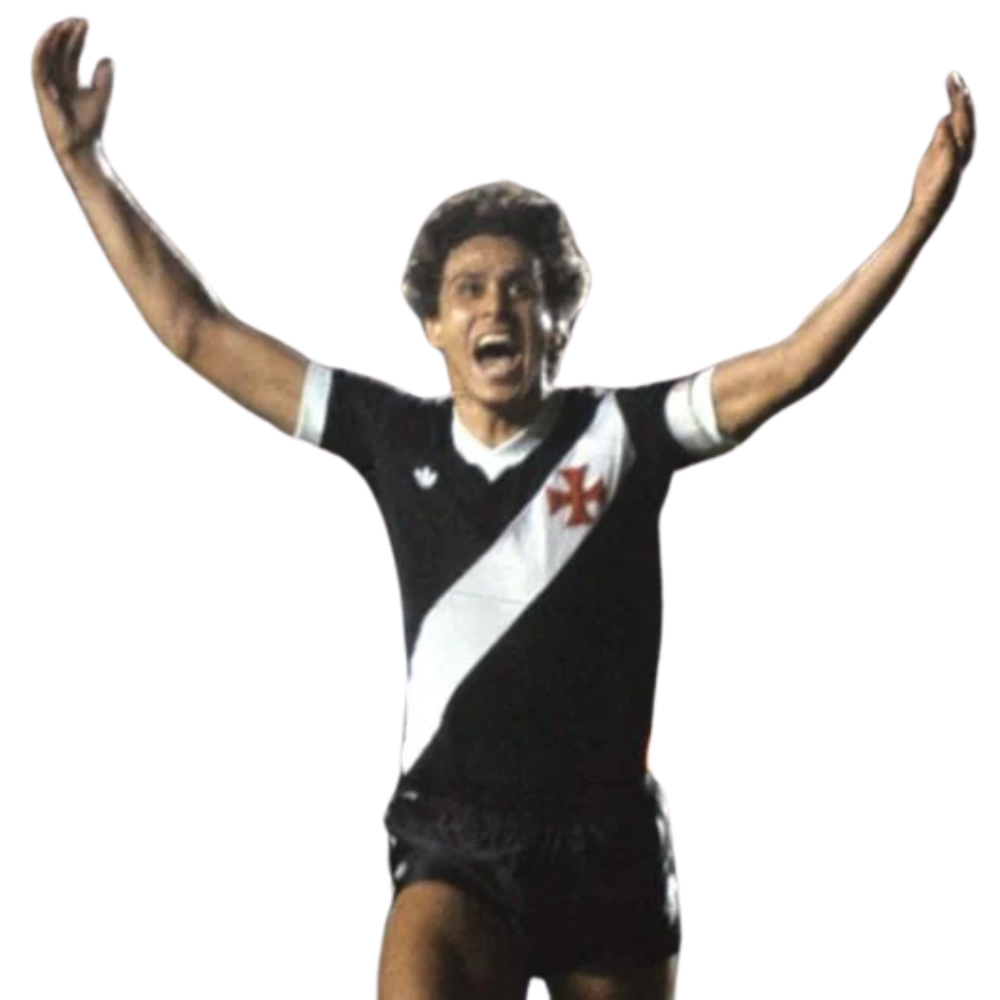
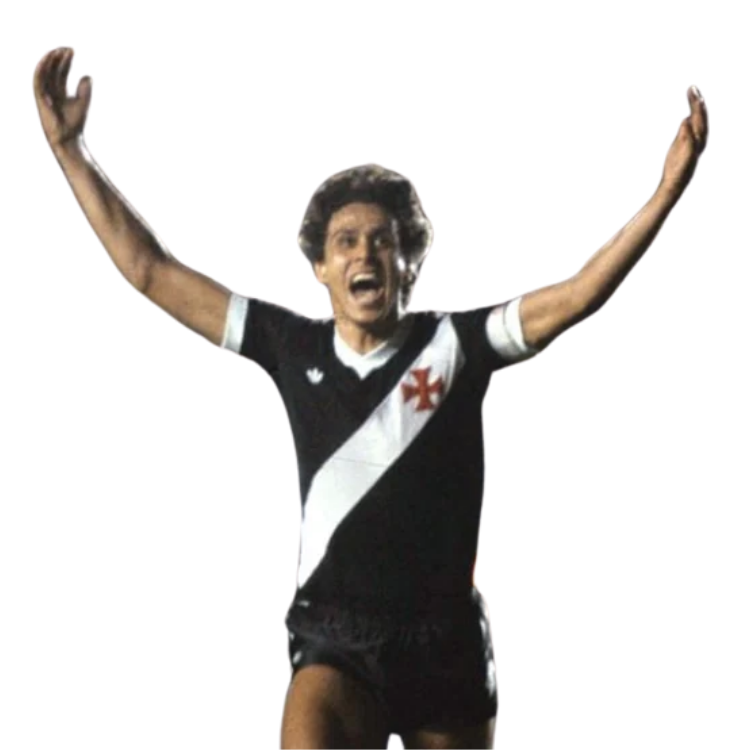
update

diff --git a/index.html b/index.html
@@ -39,15 +39,54 @@
     </section>
     <!--===================================================================================-->
     <section class="idolos">
-        <p>aaaaaaaaaaaaaaaaaaaaaaaaaaaaaaaaa</p>
-        <p>aaaaaaaaaaaaaaaaaaaaaaaaaaaaaaaaa</p>
-        <p>aaaaaaaaaaaaaaaaaaaaaaaaaaaaaaaaa</p>
-        <p>aaaaaaaaaaaaaaaaaaaaaaaaaaaaaaaaa</p>
-        <p>aaaaaaaaaaaaaaaaaaaaaaaaaaaaaaaaa</p>
-        <p>aaaaaaaaaaaaaaaaaaaaaaaaaaaaaaaaa</p>
-        <p>aaaaaaaaaaaaaaaaaaaaaaaaaaaaaaaaa</p>
-        <p>aaaaaaaaaaaaaaaaaaaaaaaaaaaaaaaaa</p>
-        v
+        <div id="titulo">
+            <h2>ÍDOLOS</h2>
+            <h1>VASCO DA GAMA</h1>
+        </div>
+        <div class="card-idolo-r">
+            <div class="imagem-card">
+                <img src="/imagens/dinamite.png" class="img-idolo"/>
+                <div class="faixa-cards">
+                </div>
+            </div>
+            <div class="informações">
+                <h2>ROBERTO</h2>
+                <h1>DINAMITE</h1>
+                <p>
+                    Roberto Dinamite foi um dos maiores ídolos do Vasco da Gama e do futebol brasileiro. Maior artilheiro da história do clube, marcou mais de 500 gols com a camisa vascaína e também defendeu a Seleção Brasileira. Seu legado é sinônimo de talento, paixão e respeito.
+                </p>
+            </div>
+        </div>
+
+        <div class="card-idolo-l">
+            <div class="imagem-card">
+                <img src="/imagens/romario.png" class="img-idolo"/>
+                <div class="faixa-cards-l">
+                </div>
+            </div>
+            <div class="informações-l">
+                <h2>ROMÁRIO</h2>
+                <h1>BAIXINHO</h1>
+                <p>
+                    Romário é um dos grandes ídolos da história do Vasco da Gama. Com seu estilo único e faro de gol, marcou época no clube e ajudou a conquistar títulos importantes, incluindo o Brasileirão de 2000. Seu nome está eternizado na história vascaína.
+                </p>
+            </div>
+        </div>
+
+        <div class="card-idolo-r">
+            <div class="imagem-card">
+                <img src="/imagens/vegetti.png" class="img-idolo"/>
+                <div class="faixa-cards">
+                </div>
+            </div>
+            <div class="informações">
+                <h2>PABLO</h2>
+                <h1>VEGETTI</h1>
+                <p>
+                    Vegetti é um dos destaques recentes do Vasco da Gama. Com raça, presença de área e gols decisivos, rapidamente conquistou a torcida e se tornou peça fundamental do time. Seu espírito de luta representa bem a tradição vascaína.
+                </p>
+            </div>
+        </div>
     </section>
     <!--===================================================================================-->
     <section class="loja">

diff --git a/style.css b/style.css
@@ -148,3 +148,117 @@ header img{
   background: linear-gradient(90deg,rgba(0, 0, 0, 0.8) 0%, rgba(39, 39, 39, 0.5) 50%, rgba(237, 221, 83, 0) 100%);
   height: 50vw;
 }
+
+/*Fim do Banner ===============================================================================================================*/
+
+.idolos{
+    background-color: rgba(28, 28, 28, 1);
+    padding-bottom: 10vw;
+    padding-top:10vw;
+}
+
+#titulo{
+    text-align: center;
+    padding-bottom: 8vw;
+}
+
+.idolos h1{
+    font-size: 8vw;
+    color:brown;
+    font-family: Long shot;
+    letter-spacing: 3px;
+}
+
+.idolos h2{
+    font-size:3.5vw;
+    font-family:'Gill Sans', 'Gill Sans MT', Calibri, 'Trebuchet MS', sans-serif;
+}
+
+.idolos{
+
+    color: aliceblue;
+    font-family:Verdana, Geneva, Tahoma, sans-serif;
+    font-size:1.3vw;
+    text-align:justify;
+}
+
+.img-idolo{
+     max-width: 35vw;
+     position: relative;
+     z-index: 99;
+     grid-column-start: 1;
+     grid-row-start: 1;
+}
+
+.card-idolo-r{
+    overflow: hidden;
+    display:grid;
+    grid-template-columns: 1fr 1fr;
+    background-color: none;
+    border-radius: 2vw;
+    width:70%;
+    margin: 0 auto;
+    height: auto;
+    margin-bottom: 8vw;
+    box-shadow: -5px 5px 10px 2px  rgb(117, 117, 117);
+}
+
+.informações{
+    grid-column-start: 2;
+    grid-row-start: 1;
+    align-content: center;
+    padding-right:4vw;
+    color:aliceblue;
+    
+}
+
+.faixa-cards{
+    width: 8vw;
+    height: 35vw;
+    background:aliceblue;
+    transform: skew(-35deg); /* Padrão */
+    z-index: 9;
+    position: relative;
+    margin-left: -25vw;
+    grid-column-start: 1;
+    grid-row-start: 1;
+}
+
+.imagem-card{
+    display:flex;
+    position: relative;
+}
+
+.card-idolo-l{
+    overflow: hidden;
+    display:grid;
+    grid-template-columns: 1fr 1fr;
+    background-color: none;
+    border-radius: 2vw;
+    width:70%;
+    margin: 0 auto;
+    height: auto;
+    margin-bottom: 8vw;
+    box-shadow: -5px 5px 10px 2px  rgb(117, 117, 117);
+}
+
+.informações-l{
+    grid-column-start: 1;
+    grid-row-start: 1;
+    align-content: center;
+    padding-left:4vw;
+    color:aliceblue;
+    
+}
+
+.faixa-cards-l{
+    width: 8vw;
+    height: 35vw;
+    background:aliceblue;
+    transform: skew(35deg); /* Padrão */
+    z-index: 9;
+    position: relative;
+    margin-left: -20vw;
+    grid-column-start: 1;
+    grid-row-start: 1;
+}
